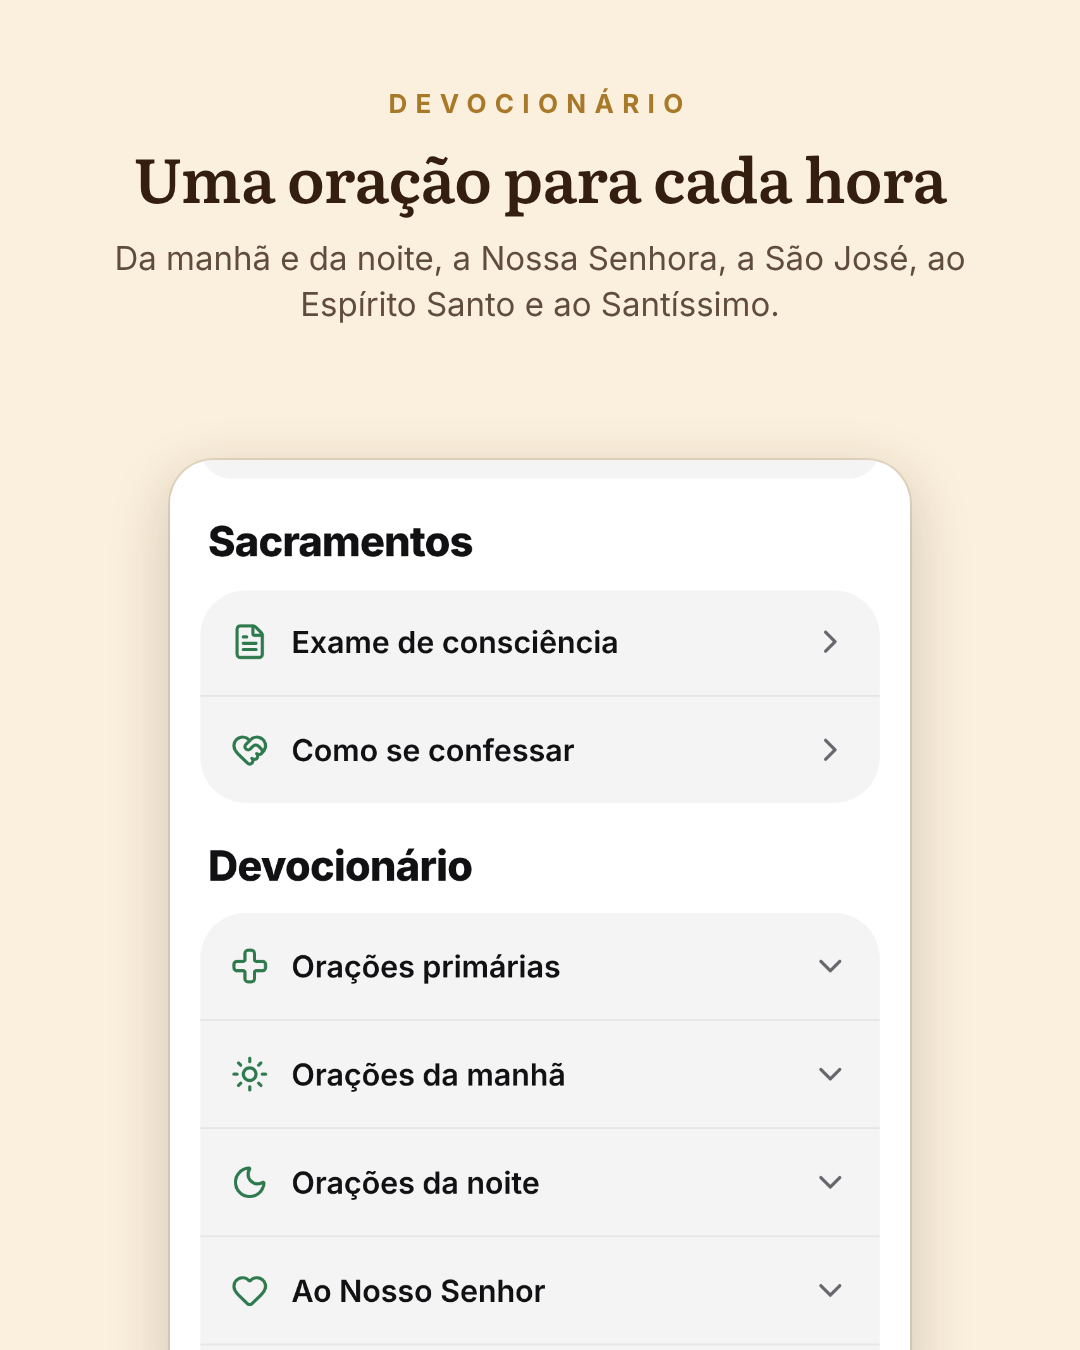
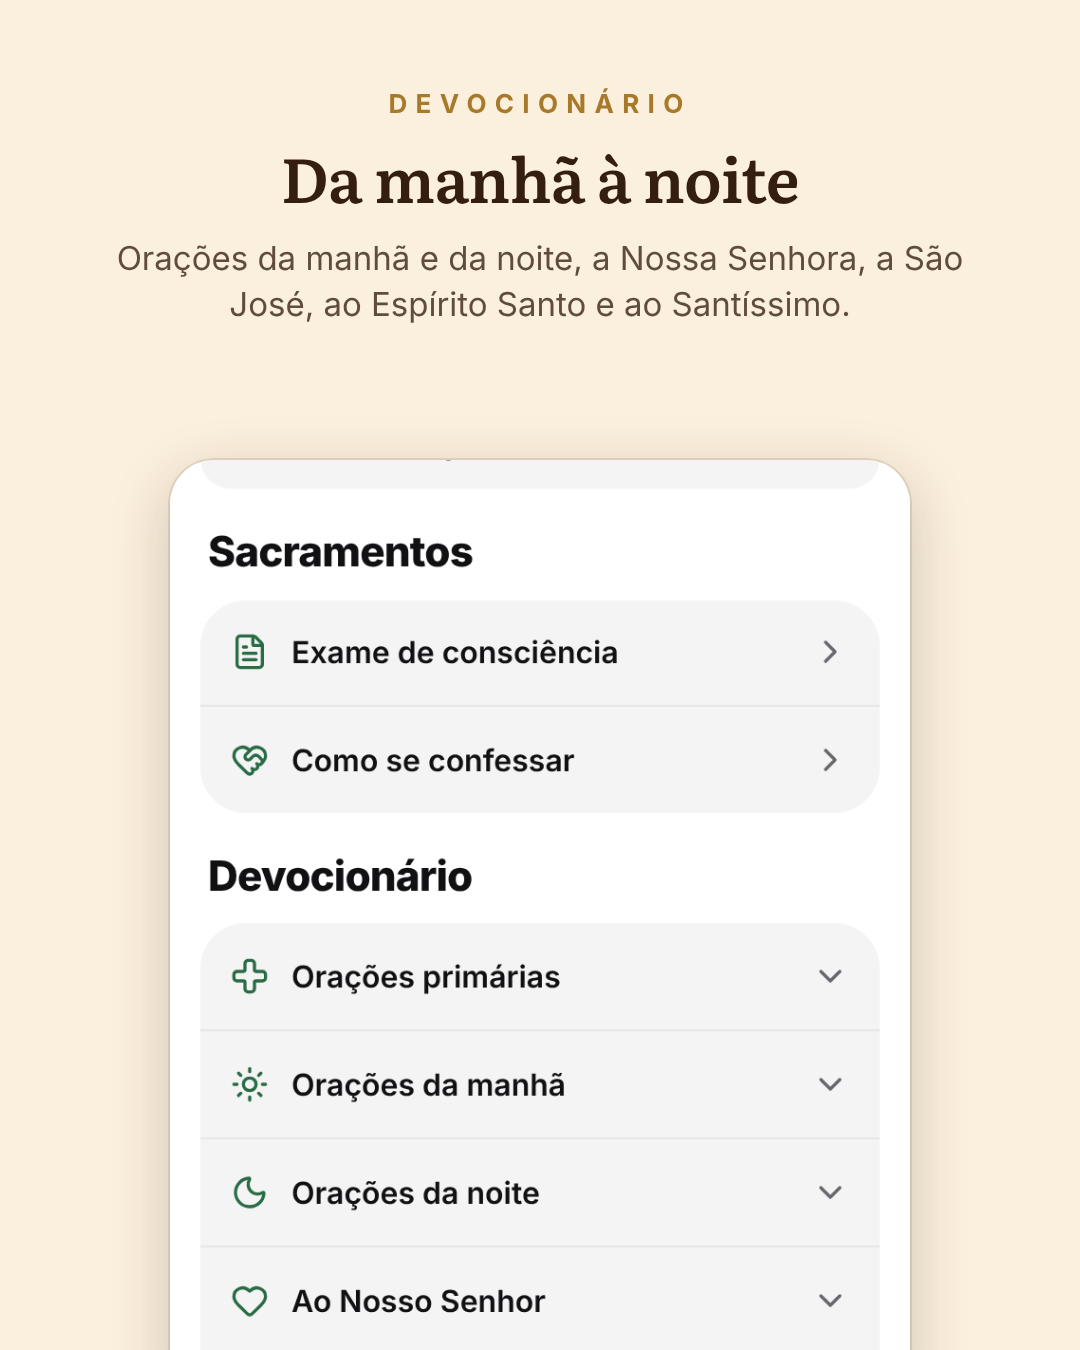
Post de orações revisado: capa sem "da tradição da Igreja", santos, beatos e veneráveis, Ladainha de Nossa Senhora, Lc 11,1 fiel
Claude-Session: https://claude.ai/code/session_01KkDATWAAHk8rZXQWk2D87j

diff --git a/docs/marca/instagram/FILA.md b/docs/marca/instagram/FILA.md
@@ -2,7 +2,7 @@
 
 O dono pede um por vez, na hora de postar. Cada pasta tem as lâminas (01.png...) e a `legenda.txt`.
 
-Posts 1 a 5 são sobre o app (pedido do dono, 14/11/2026). Post 1 (apresentação) publicado em 13/11; Bíblia publicado em 14/11; Missas (refeito, 9 lâminas) em 15/11; Terço em 16/11.
+Posts 1 a 5 são sobre o app (pedido do dono, 14/11/2026). Post 1 (apresentação) publicado em 13/11; Bíblia publicado em 14/11; Missas (refeito, 9 lâminas) em 15/11; Terço em 16/11; Orações em 17/11.
 
 Ordem combinada com o dono em 15/11/2026: primeiro a apresentação do app, em sequência no feed (quem chega ao perfil vê um recurso por post), depois as campanhas.
 
@@ -10,7 +10,7 @@ Ordem combinada com o dono em 15/11/2026: primeiro a apresentação do app, em s
 2. `post-biblia/` (14/11) · publicado
 3. `post-missas/` (15/11) · publicado
 4. `post-terco/` (16/11) · publicado
-5. `post-oracoes/` · pronto
+5. `post-oracoes/` (17/11, revisado: capa sem "da tradição", santos beatos e veneráveis, Ladainha de Nossa Senhora) · publicado
 6. `post-titulos-dos-santos/` · pronto
 7. Novembro: rezar por quem partiu (`plano-lancamento.md`, post 5) · a fazer
 8. Como pôr o app na tela do celular (`plano-lancamento.md`, post 8) · a fazer
